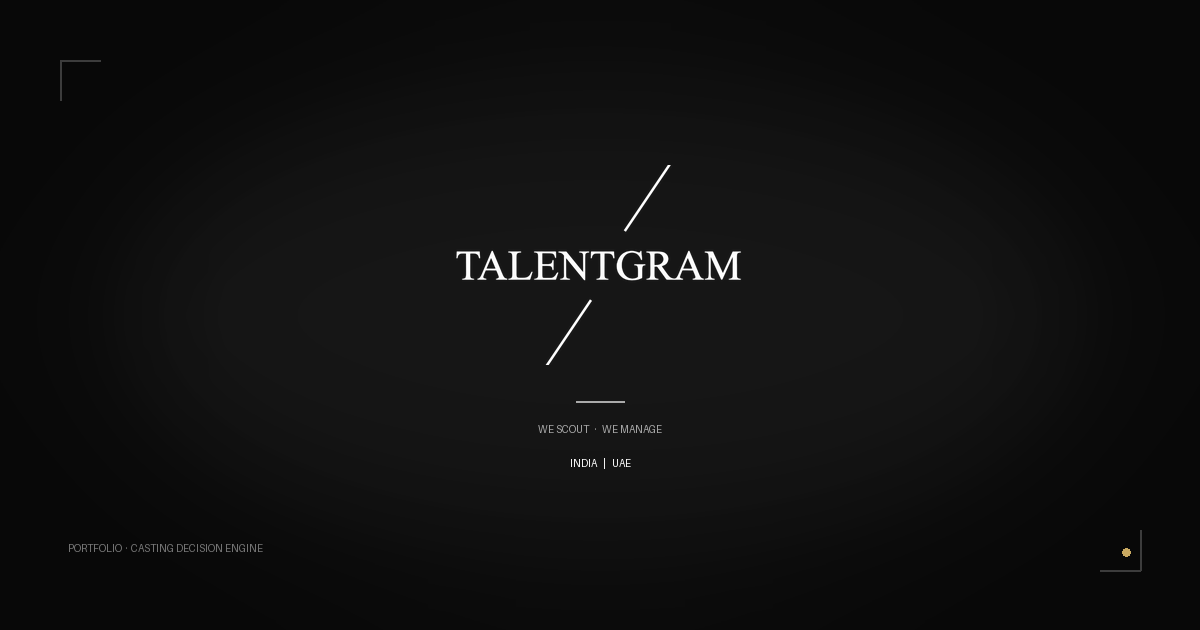
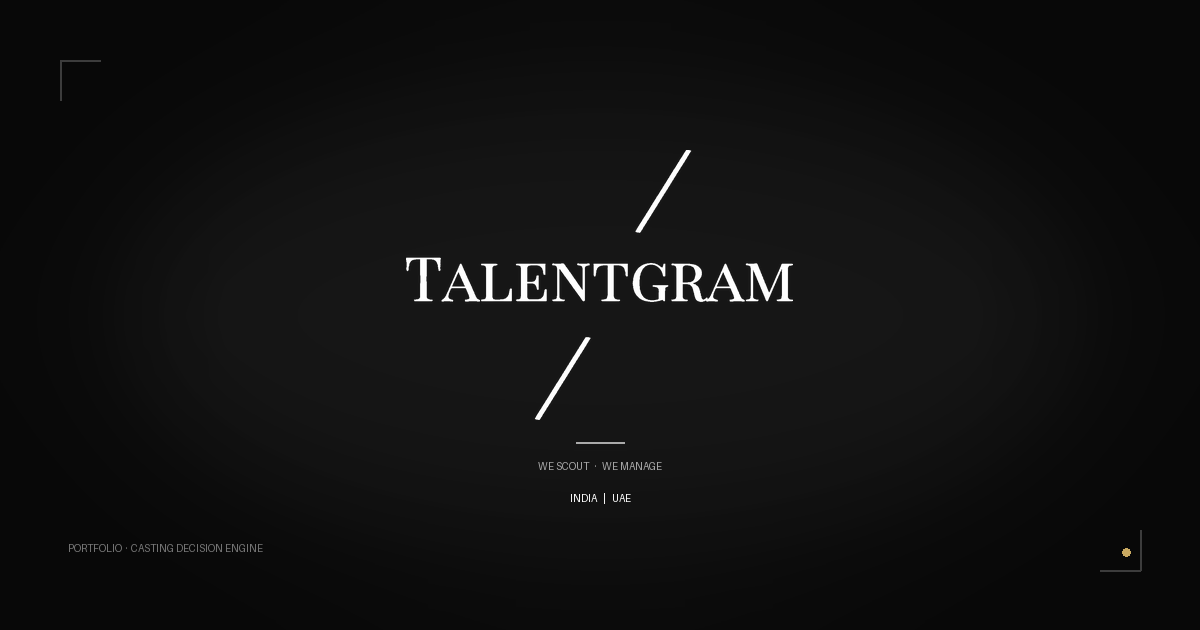
auto-commit for 7d642371-0857-49ca-9148-9e42032e5415

diff --git a/frontend/src/components/Logo.jsx b/frontend/src/components/Logo.jsx
@@ -8,23 +8,27 @@ import React from "react";
  * hero photo (e.g. a tinted cover image) can override with
  * `forceVariant="white"` to use the white-ink asset.
  *
- * Sizes (height in px) — width auto-derives from intrinsic aspect ratio
- * (≈ 1413 × 711 → 1.99:1):
- *   sm  = 24    (compact nav / footer)
- *   md  = 40    (sidebar / form headers)
- *   lg  = 64    (modal hero, mid-section anchors)
- *   xl  = 110   (mobile hero per spec — width ≈ 110 × 1.99 ≈ 220px)
- *   2xl = 150   (desktop hero per spec — width ≈ 150 × 1.99 ≈ 300px)
+ * v38g — New brand asset (user-uploaded, high-res). Aspect ratio is now
+ * ≈ 1.435:1 (1155 × 805) — taller per unit width than the previous
+ * wordmark, so size calls below were nudged upward for stronger presence
+ * at the same visual weight.
+ *
+ * Sizes (height in px) — width auto-derives from aspect ratio:
+ *   sm  = 28    (compact nav / footer)         → ~40 px wide
+ *   md  = 48    (sidebar / form headers)        → ~69 px wide
+ *   lg  = 72    (modal hero, mid-section)       → ~103 px wide
+ *   xl  = 130   (mobile hero per spec)          → ~187 px wide
+ *   2xl = 180   (desktop hero per spec)         → ~258 px wide
  *
  * A subtle drop-shadow is applied so the logo never blends into adjacent
  * surfaces of similar luminance.
  */
 const SIZES = {
-    sm: 24,
-    md: 40,
-    lg: 64,
-    xl: 110,
-    "2xl": 150,
+    sm: 28,
+    md: 48,
+    lg: 72,
+    xl: 130,
+    "2xl": 180,
 };
 
 const SRC_BLACK = "/brand/talentgram-black.png"; // black ink → for light backgrounds (default)

diff --git a/frontend/src/components/BrandHero.jsx b/frontend/src/components/BrandHero.jsx
@@ -31,13 +31,14 @@ import Logo from "@/components/Logo";
 export default function BrandHero({ size = "lg", inverted = false, className = "" }) {
     // Per-size base height + a responsive cap on small screens so the hero
     // never pushes CTAs below the fold on iPhone SE (320–375 px wide).
-    // Sizes in HEIGHT (asset aspect ≈ 1.99:1, so width ≈ height × 2):
-    //   md  → 110 mobile / 150 desktop  (≈ 220 / 300 width)
-    //   lg  → 140 mobile / 200 desktop  (≈ 280 / 400 width)
+    // v38g — new logo aspect ratio ≈ 1.435:1, so heights below produce
+    // these widths:
+    //   md  → 130 mobile / 180 desktop  (≈ 187 / 258 width)
+    //   lg  → 170 mobile / 240 desktop  (≈ 244 / 344 width)
     const config =
         size === "md"
-            ? { logoH: 110, mdLogoH: 150, gap: "mt-6", scout: "text-[11px]", region: "text-base sm:text-lg" }
-            : { logoH: 140, mdLogoH: 200, gap: "mt-7 sm:mt-9", scout: "text-[11px] sm:text-xs", region: "text-base sm:text-lg md:text-xl" };
+            ? { logoH: 130, mdLogoH: 180, gap: "mt-6", scout: "text-[11px]", region: "text-base sm:text-lg" }
+            : { logoH: 170, mdLogoH: 240, gap: "mt-7 sm:mt-9", scout: "text-[11px] sm:text-xs", region: "text-base sm:text-lg md:text-xl" };
 
     return (
         <div

diff --git a/memory/PRD.md b/memory/PRD.md
@@ -42,6 +42,25 @@ Submission (Raw)   →   Admin (Decision)    →   Client (Presentation)
 - **Client layer** — receives computed, filtered, allowlisted output only. Internal admin fields (availability, budget, custom_answers, competitive_brand, form_data, dob, email, phone, notes) can never leak.
 
 ## Recent Updates
+- **2026-04-30 (v38g)** — **New high-res Talentgram logo applied globally.** User-uploaded enhanced asset replaces all logo variants.
+  - **Asset processing** (PIL pipeline):
+    - Source: 3840×2160 RGBA with white background + "Let's Enhance.io" watermark in bottom-left.
+    - Replaced near-white pixels (R/G/B > 245) with full transparency.
+    - Masked the bottom-left 25% × 35% quadrant where the watermark sat → fully transparent there.
+    - Auto-trimmed to glyph bounds via alpha bbox → final size **1155 × 805** (aspect ratio **1.435:1**, taller per unit width than the previous wordmark).
+    - Generated white-ink variant by inverting RGB on every visible pixel while preserving the alpha mask → pixel-identical glyph, swapped colour.
+  - **Files written**:
+    - `/app/frontend/public/brand/talentgram-black.png` (default, light surfaces)
+    - `/app/frontend/public/brand/talentgram-white.png` (forced for AdminLogin's dark hero rail)
+    - `favicon-16x16.png` / `favicon-32x32.png` / `favicon.ico` / `apple-touch-icon.png` regenerated from the new white-ink master on a near-black square canvas.
+    - `og-image.png` rebuilt at 1200×630 with the larger 270 px-tall logo, hairline corner ornaments, "WE SCOUT · WE MANAGE" + "INDIA | UAE" + "PORTFOLIO · CASTING DECISION ENGINE" footer + gold accent.
+  - **`Logo.jsx` size table bumped** (premium scale per spec):
+    - sm 24→**28**, md 40→**48**, lg 64→**72**, xl 110→**130**, 2xl 150→**180** (height; width auto from 1.435:1).
+    - Comments updated to reflect new aspect ratio.
+  - **`BrandHero.jsx` heights bumped**:
+    - md: 110/150 → **130/180** (mobile/desktop height; ≈187/258 width)
+    - lg: 140/200 → **170/240** (≈244/344 width)
+  - **Verified live** (1280×800 + 390×844): Landing hero, AdminLogin left rail (white-ink), admin sidebar, /apply header — all render the new asset crisply with no layout regression. Lint clean.
 - **2026-04-30 (v38f)** — **Light-mode-only — dark mode removed completely (UI only).** Per spec: force consistent light theme everywhere, strip the toggle, no functional or backend changes.
   - **`/app/frontend/public/index.html`**: pre-React inline script always sets `html.light` and writes `tg_theme=light` to localStorage. No `dark` class is ever added on cold load. Single `theme-color` meta (#fafaf7).
   - **`/app/frontend/src/lib/theme.js`** (rewritten, ~30 lines): `useTheme()` API kept identical (`{theme, toggle, isLight}`) for caller compatibility — but `theme` is locked to `"light"`, `isLight` is always `true`, `toggle` is a no-op. Effect re-applies `html.light` on every mount in case anything ever stripped it.
